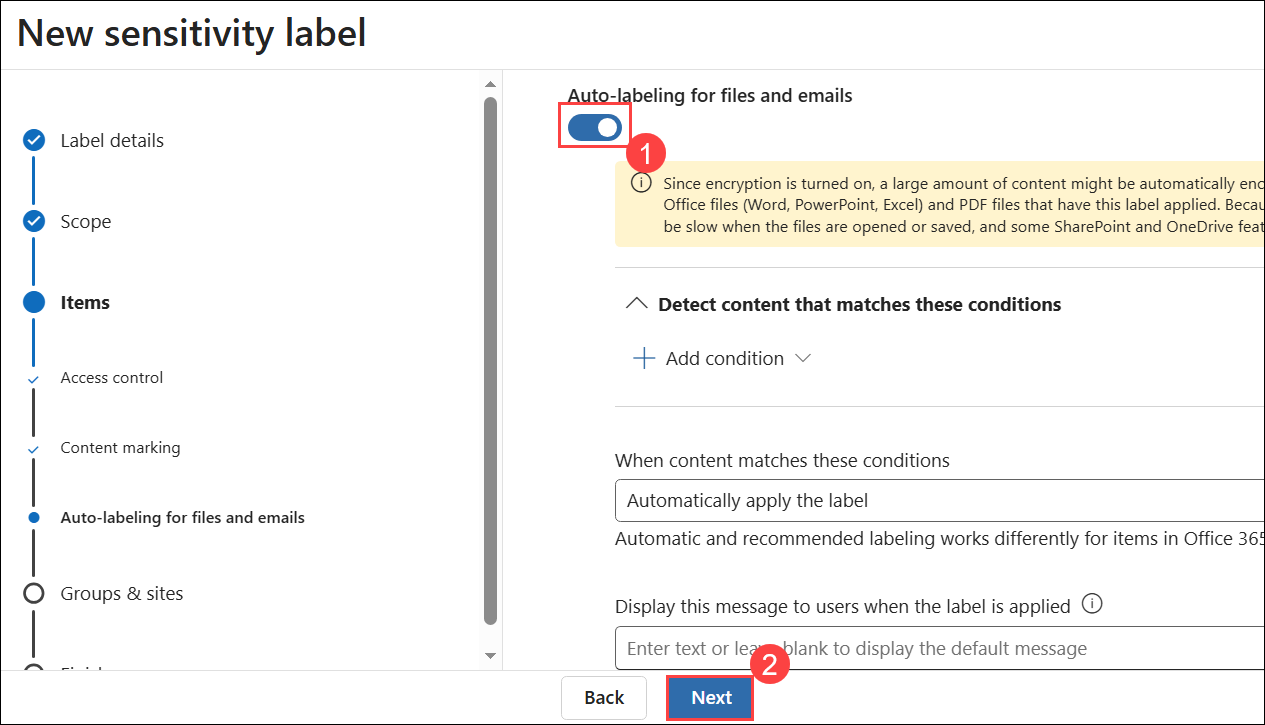
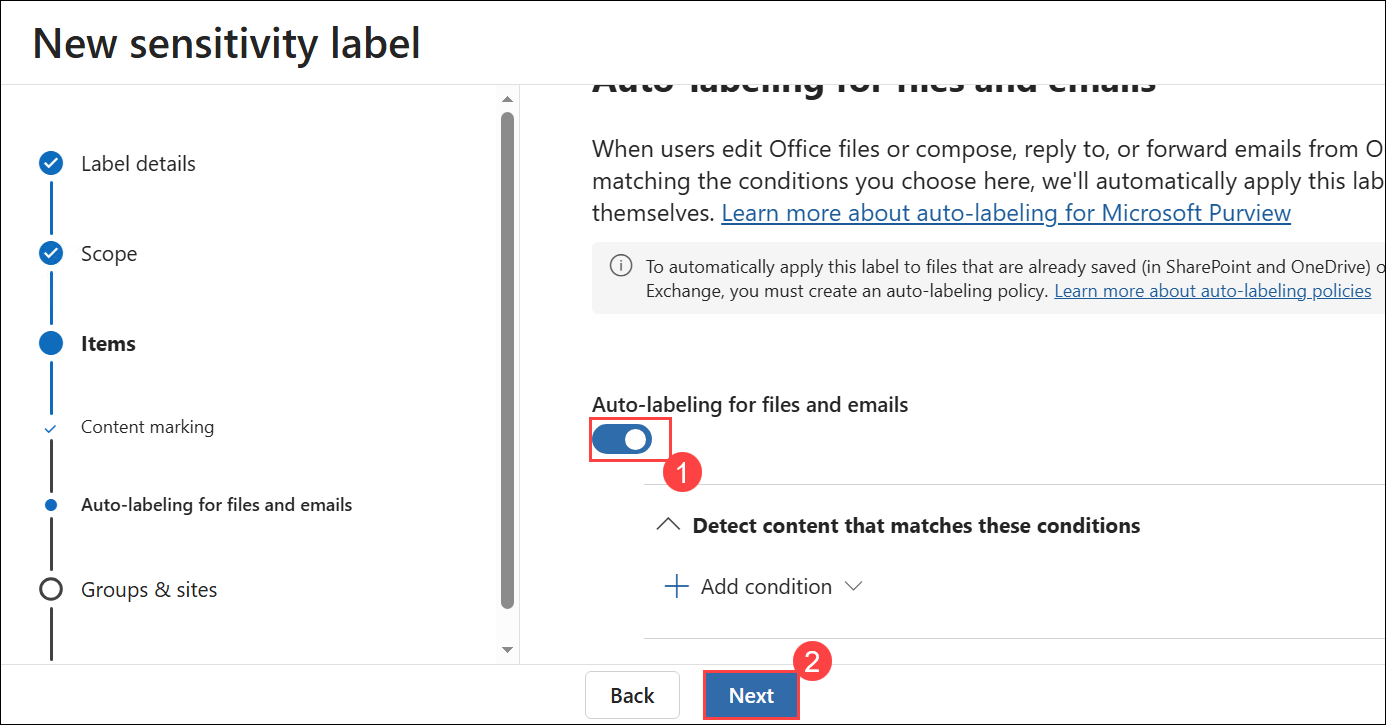
update lab13

diff --git a/Instructions/Labs/LAB_13_explore_senstivity_labels.md b/Instructions/Labs/LAB_13_explore_senstivity_labels.md
@@ -38,7 +38,7 @@ In this task you will gain an understanding of what sensitivity labels can do by
 
 1. Under **Admin centers (1)**, select **Microsoft Purview (2)**.
 
-    ![](../Images/lab13-t1p1.png)
+    ![](../Images/lab13-t1p2.png)
 
 1. Sometimes, A new browser page opens. Since you are already signed in, your email will be listed. You can select your email address, to log in to Microsoft Purview.
     
@@ -61,7 +61,7 @@ In this task you will gain an understanding of what sensitivity labels can do by
 
     ![](../Images/lab13-t1p8.png)    
 
-1. Now select **+ Create a label (2)**.
+1. Now select **+ Create a label**.
 
     ![](../Images/lab13-t1p9.png)
 
@@ -81,29 +81,9 @@ In this task you will gain an understanding of what sensitivity labels can do by
 
 1. On the Choose protection settings for labeled items page, check **Apply content marking (1)** options and then click **Next (2)**.
 
-    ![](../Images/lab13-t1p12.png)
+    ![](../Images/lab13-t1p12(1).png)
 
     >**Note:** The **Control access** option is not selected in this lab because it requires **Rights Management (Azure RMS / Microsoft Purview Information Protection)** to be enabled and fully configured in the organization. Since RM services may not be activated in the newly created lab tenant, this option is intentionally skipped to avoid configuration or policy enforcement issues.
-
-1. Under **Access Control (1)** section, scroll down and click on **Assign Permissions (2)**.
-
-    ![](../Images/lab13-t1p13.png)
-    
-1. Click on **+ Add Users or Groups** in the **Assign Permissions** page that shows up. 
-
-    ![](../Images/L13-T1-S17.png)
-
-1. Select your username **Megan Bowen (1)** and  **odl_user_<inject key="deploymentID"></inject> (2)**  and click on **Add (3)**.
-
-    ![](../Images/lab13-t1p14.png)
-
-1. On the Assign permissions page, check the users you selected in the previous step. These users can interact with the content that has this label applied. Then, click **Save**.
-
-    ![](../Images/L13-T1-S19.png)
-
-1. Under Users and groups, the tenant is defined, allowing all users in your tenant to view content with this label. The finance team is also listed and has co-author permissions. Do not change any settings. Select **Next** on the bottom of the page.
-
-    ![](../Images/L13-T1-S20.png)
 
 1. On the content markings page, take note of the information box on the top of the page. **Turn on (1)** the Content Making and select **Add a watermark (2)**, **Add a header (3)**, & **Add a footer (4)**. Click on **Customize text (5),(6),(7)** on each and provide the text **customize watermark test** and click on **Save**.  Content markings will be applied to the documents but only headers and footers will be applied to email messages. In other words, watermarks are not applied to emails. The content marking associated with this label is a watermark. Select **Next (8)** on the bottom of the page.
 
@@ -129,11 +109,11 @@ In this task you will gain an understanding of what sensitivity labels can do by
 
 1. A new window of **Publish label** will open. Click on **Create new label policy**.
 
-      ![](../Images/lab13-t1p21.png)
+      ![](../Images/lab13-t1p20.png)
 
 1. A new window of Create policy will open. Select **Choose sensitivity labels to publish (1)**. A window opens that provides information about the policy. This policy serves to publish the IT-Department-Demo. Select **Confidential-Finance (2)** from label and select **Add (3)** on the bottom of the page. And then click on **Next (4)**.
 
-     ![](../Images/sc-88.png)
+     ![](../Images/lab13-t1p21.png)
      
 1. Under the Sensitivity labels to publish.  Don’t change any settings.  Select **Next** on the bottom of the page.
 
@@ -151,11 +131,11 @@ In this task you will gain an understanding of what sensitivity labels can do by
 
     ![](../Images/sc-900-jap26.png)
 
-1. Under the **Apply a Default label to documents**.  Don’t change any settings.  Select **Next** on the bottom of the page.
+1. Under the **Apply a default label to documents**.  Don’t change any settings.  Select **Next** on the bottom of the page.
 
     ![](../Images/sc-89.png)
 
-1. Under the **Apply a Default label to emails**.  Don’t change any settings.  Select **Next** on the bottom of the page.
+1. Under the **Apply a default label to emails**.  Don’t change any settings.  Select **Next** on the bottom of the page.
 
     ![](../Images/sc-90.png)
     
@@ -187,9 +167,9 @@ In this task you will gain an understanding of what sensitivity labels can do by
 
 1. It can take up to 24 hours to publish the labels to the selected users apps.
 
-1. From the left navigation panel, under **Information protection**, select **Auto-labeling policies (1)**. Then click on select **+Create auto-label policy (2)**.
+1. From the left navigation panel, under **Information protection (1)**, select **Auto-labeling policies (2)**. Then click on select **+ Create auto-label policy (3)**.
 
-      ![](../Images/sc-900-dec24-lab13-7.png)
+      ![](../Images/lab13-t1p22.png)
 
 1. Note the available options. Select **Medical and health (1)** then select one of the available templates **(2)**. Select **Next (3)**.  
 
@@ -199,62 +179,91 @@ In this task you will gain an understanding of what sensitivity labels can do by
 
       ![](../Images/sc-97.png)
 
+1. Next you choose a label to auto-apply. Select **+ Choose a label (1)**. Select **Confidential-Finance (2)** label from the list, select **Add (3)** and then click on **Next (4)**.
+
+    ![](../Images/lab13-t1p23.png)
+
 1. You can assign the admin units to which this policy applies. Leave the default set to full directory and select **Next**.      
 
-      ![](../Images/sc-98.png)   
+      ![](../Images/lab13-t1p24.png)   
 
-1. Note the available **locations where you want to apply the label**. Leave the defaults and select **Next**.    
+1. Note the available **locations where you want to apply the label**. For this exercise, select the box next to **Exchange email (1)** then select **Next (2)**.  
 
-      ![](../Images/sc-99.png)   
+      ![](../Images/lab13-t1p25.png)   
 
 1. You can **Set up common or advanced rules** that define what the content the label is applied to. Leave the default set to Common rules and select **Next**.
 
-      ![](../Images/sc-100.png)   
+      ![](../Images/lab13-t1p26.png)   
 
 1. You can **Define rules for content in all locations**. Leave all the default settings and select **Next**.     
 
-      ![](../Images/sc-101.png)   
-
-1. Choose a label to auto-apply by selecting **+Choose a label (1)**. Choose a label **Confidential-Finance (2)** then select **Add (3)**. Select **Next (4)**.
-
-      ![](../Images/sc-110.png)   
+      ![](../Images/lab13-t1p27.png)     
 
 1. **Additional settings can be configured for email**. Leave the defaults and select **Next**.      
 
-      ![](../Images/sc-102.png)   
+      ![](../Images/lab13-t1p28.png)   
 
 1. You can decide to test the policy now or later. Select **Leave policy turned off (1)** then select **Next (2)**.
 
-      ![](../Images/sc-103.png)   
+      ![](../Images/lab13-t1p29.png)   
 
-1. Review the settings and select **Create policy** then select **Done**.      
+1. Review the settings. For the purpose of this exercise, you can cancel out with out creating the policy. Select **Cancel**.
 
-      ![](../Images/sc-104.png)   
+    ![](../Images/lab13-t1p30(1).png) 
 
-      >**Note:** If you encounter any client error, please sign out, then sign back in, and then resume the process starting from step 43.
+1. On the **Auto-labeling policies** pop-up window, click on **Confirm**.
 
-      ![](../Images/sc-111.png)   
+    ![](../Images/lab13-t1p31.png) 
 
 1. From the left navigation panel, select **Home** to return to the Microsoft Purview portal.            
 
 ## Task 2: How to apply a label
+
 In this task, you will go through the process of applying a label from the perspective of the user (in this case the user is the admin) and view the content marking that is generated by the label.
 
-1. From the Microsoft Purview home page, select the **app launcher icon**, and **right click on the Word icon** and select **Open in new tab**. 
+1. From the Microsoft Purview home page, select the **App launcher (1)** icon, and and click on **More apps (2)**.
 
-   ![](../Images/L13-T2-S1.png) 
+   ![](../Images/lab13-t2p1.png) 
 
-1. Select **Blank document**, then enter some text on the page.  On the blue bar on the top of the page, select the down-arrow, next to where it says **Document**, and in the File Name box enter, **Test-label**.
+1. A new tab will open in the browser taking you to the M365 portal.
+
+1. If the **Welcome to Apps** pop-up appears, click the **X** icon to close it.
+
+    ![](../Images/lab13-t2p2.png)
+
+    >**Note:** Click the **X** icon to close the **All your work in one place, now easier with AI** window.
+
+    ![](../Images/lab13-t2p2(1).png)
+
+1. From the left navigation pane select Apps (1) and then select **Word (2)**.
+
+    ![](../Images/lab13-t2p3.png)
+
+1. A new browser tab will open to the Word homepage. From there, select **+ Create blank document**.
+
+    ![](../Images/lab13-t2p4.png)
+
+1. If a **Your privacy option** pop-up window appears, click on **Close**.
+
+    ![](../Images/lab13-t2p5.png)
+
+1. Under Create new, select **Blank document**, then enter some text on the page. On the top of the page, next to the **Word** icon, select where it says **Document** and rename the file to **Test-label** then press Enter on your keyboard.
 
    ![](../Images/L13-T2-S2.png) 
 
-1. From the top menu bar, select **Sensitivity (1)**. From the drop down select **Confidential-Finance (2)** (**Note:** If the option is not available, it will take sometime to reflect, and if selecting the label shows error label cannot be added to Word on web, please try refreshing the page once or sign-out and sign-in again).
+1. On the far right of top menu bar (also referred to as the ribbon) is a **down arrow (1)**, select it, then select **Classic Ribbon (2)**. This will make it easier to identity the sensitivity icon.
 
-   ![](../Images/sc-105.png)     
+    ![](../Images/lab13-t2p6.png)
 
-1. From the top menu bar, select **View**, then select **Reading view**.
+1. From the top menu bar, select **Sensitivity (1)**. From the drop down select **Confidential-Finance (2)**.
 
-    ![](../Images/L13-T2-S4.png)            
+    ![](../Images/lab13-t2p7.png)  
+
+    >**Note:** If the option is not available, it will take sometime to reflect, and if selecting the label shows error label cannot be added to Word on web, please try refreshing the page once or sign-out and sign-in again.   
+
+1. From the top menu bar, select **View (1)**, then select **Reading view (2)**.
+
+    ![](../Images/lab13-t2p8.png)            
 
 1. Notice how the document includes the watermark. 
 
@@ -262,35 +271,6 @@ In this task, you will go through the process of applying a label from the persp
 
 1. Close the Microsoft Word tabs that are open on your browser to exit from Word.
 
-## Task 3 (optional): Impact of that label
-In addition to content marking, the label protection setting was set for encryption. Per the permissions that were configured with this label, members of the finance group can co-author documents with this label applied and users in the Contoso tenant can view (or any document/email with the label applied).  In this task you will send this document to an email address to which you have access (ie., a personal email address) and that is NOT part of the OnMicrosoft.com domain and see what happens when you try to open the attachment.  
-
-1. From the Microsoft Purview home page, select the **app launcher icon**, and **right click on the Outlook icon** and select **Open in new tab**.
-
-   ![](../Images/L13-T3-S1.png) 
-
-1. Select **New mail** from the top left corner of the screen.  
-
-   ![](../Images/L13-T3-S2.png) 
-
-1. Enter an email address to which you have access **(1)** and is not part of the .OnMicrosoft.com domain and enter **Test (2)** in the subject line. Select **Insert** from the menubar and click on **Attach file (3)** drop down then select **Onedrive (4)**.
-
-      ![](../Images/sc-106.png)   
-
-1. Select the word document you recently created to which you applied the label **Test-label (1)**. Select **Share link (2)**.
-
-   ![](../Images/sc-107.png) 
-
-1. Then click on **Send**.  
-
-   ![](../Images/sc-108.png) 
-
-1. Check the email to which you sent the document.  Note, the email may be directed to your junk folder.  When you attempt to open the attached word file you will see a notification that you do not have permission to open the document.
-
-   ![](../Images/sc-900-dec24-lab13-14.png) 
-
-1. Close the open browser tabs.
-   
 ## Review
 In this lab, you have completed:
 - Explore the capabilities of sensitivity labels

diff --git a/Instructions/Labs/LAB_14_explore_insider_risk_mgt.md b/Instructions/Labs/LAB_14_explore_insider_risk_mgt.md
@@ -2,6 +2,7 @@
 
 ## Lab Overview
 In this lab, you will walk through the process of setting up an insider risk policy, along with the basic prerequisites to configure and use insider risk management policies.  
+
 >**Note:** This lab will only provide visibility into what is required for setting up Insider risk management and options associated with creating a policy.  This lab does not include a task to trigger the policy, as the number of events that would need to occur to trigger a policy are outside of the scope of this exercise.
 
 ## Lab Objectives
@@ -13,7 +14,7 @@ In this lab, you will complete the following tasks:
 + Task 3: Apply to all insider risk management policies
 + Task 4: Create policy
 
-## Estimated timing: 60 minutes
+## Estimated timing: 60 Minutes
 
 ## Architecture diagram
 
@@ -22,7 +23,7 @@ In this lab, you will complete the following tasks:
 ## Task 1: Process of setting up an insider risk policy
 In this task, you, as the global administrator, will enable permissions for Insider Risk Management.  Specifically, you will add users to the Insider Risk Management role group to ensure that designated users can access and manage insider risk management features.  It may take up to 30 minutes for the role group permissions to apply to users across the organization. 
 
-1. If you not alredy login to admin center, the address bar of Microsoft edge enter **admin.microsoft.com**.
+1. In the address bar of Microsoft edge enter **admin.microsoft.com**.
 
 1. On **Sign in** blade, you will see a login screen, in that enter the following email/username 
  
